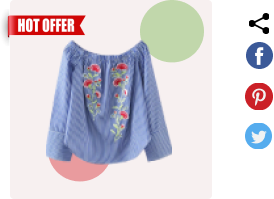
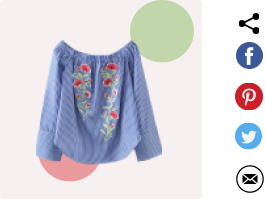
imagenes para descripcion

diff --git a/totallook/src/Pages/Product/Product.js b/totallook/src/Pages/Product/Product.js
@@ -4,6 +4,7 @@ import { ProductData } from "../../Data/ProductsData";
 import Stars from "../../Assets/clothes/stars.png";
 import Return from '../../Assets/img/return.png';
 import './Product.css'
+import Redes from '../../Assets/img/banners/Redes.png'
 
 const Product = () => {
 	const data = ProductData;
@@ -35,7 +36,7 @@ const Product = () => {
 						return(
 							<div key={item.id} className='items'>							
 								<div className = "imagen">
-								<img src={item.image} alt="product" ></img>  
+								<img src={Redes} alt="product" ></img>  
 								</div>
 								<p className="">{item.product}</p>                
 								<p className="">{item.descripcion}</p>
